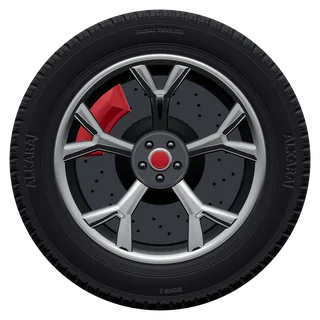
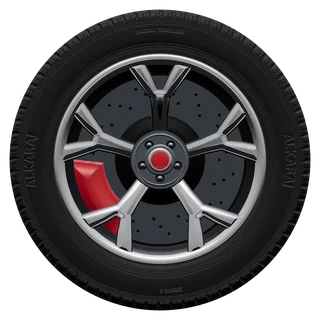
Wheel: a softbox arc on the sidewall, neutral rim light, the caliper at eight o'clock, an embossed hub
A near rectangular softbox above the wheel lights the top of the sidewall more than the bottom; the rim light and its
strip are neutral so the rubber reads grey-black; the caliper sits at eight o'clock so it shows through the spokes in
the 3/4 view; the hub face gets a raised boss round the cap and a thin embossed ring.

Claude-Session: https://claude.ai/code/session_01GJA9LqLvcHsRmQeKeLFNUG

Changed region(s): [[0.2188, 0.25, 0.4062, 0.75], [0.4375, 0.5312, 0.5625, 0.5938], [0.4375, 0.4062, 0.5625, 0.4688]]

diff --git a/scripts/brand/wheel/scene.js b/scripts/brand/wheel/scene.js
@@ -138,7 +138,7 @@ export function buildTyre({ segments = 1440, rows = 240 } = {}) {
     metalness: 0,
     bumpMap: tb,
     bumpScale: 28,
-    sheen: 0.5,
+    sheen: 0.25,
     sheenRoughness: 0.55,
     sheenColor: new THREE.Color(0x4a4d55),
     specularIntensity: 1.0,
@@ -361,6 +361,9 @@ export function buildRim() {
     const tip = new THREE.Mesh(tipG, M.nut); tip.position.set(x, y, HUB_Z - 0.022); g.add(tip);
   }
   // centre cap: the tag's red enamel in a thin alloy ring
+  // a raised centre boss round the cap, and a thin embossed ring between the nuts and the machined edge
+  g.add(new THREE.Mesh(lathe([[0.081, HUB_Z + 0.006], [0.094, HUB_Z + 0.0055], [0.1, HUB_Z + 0.002], [0.103, HUB_Z]], 192), M.hub));
+  g.add(new THREE.Mesh(lathe([[0.162, HUB_Z], [0.1645, HUB_Z + 0.0028], [0.168, HUB_Z + 0.0034], [0.1715, HUB_Z + 0.0028], [0.174, HUB_Z]], 256), M.hub));
   const capZ = HUB_Z + 0.006;
   g.add(new THREE.Mesh(lathe([[0.06, capZ + 0.004], [0.068, capZ + 0.005], [0.076, capZ + 0.002], [0.083, capZ - 0.01], [0.083, capZ - 0.05]], 192), M.lip));
   g.add(new THREE.Mesh(lathe([[0.0, capZ + 0.009], [0.035, capZ + 0.0085], [0.055, capZ + 0.006], [0.0605, capZ + 0.003]], 192), M.enamel));
@@ -393,7 +396,7 @@ export function buildBrake() {
   g.add(new THREE.Mesh(lathe([[0.69, -0.3], [0.64, -0.29], [0.6, -0.2], [0.59, -0.14]], 192), M.well));
 
   // the caliper: a rounded monoblock over the disc's edge at about ten o'clock, glossy red paint
-  const mid = 148 * DEG, half = 29 * DEG;
+  const mid = 210 * DEG, half = 29 * DEG; // about eight o'clock
   const cal = [];
   const N = 40;
   const r0 = 0.395, r1 = 0.605;
@@ -489,14 +492,15 @@ export function envStudio(renderer, { top = false } = {}) {
     flag(5, 2, [0, -4, 7]);
   } else {
     // a white studio: bright ceiling, a big key overhead to the left, a cool strip behind right, black flags for contrast
-    dome(s, 0.03, 0.2, 0.5);
+    dome(s, 0.01, 0.07, 0.25);
     box(12, 8, 3.4, 0xfff6ec, [-6, 7, 5]);
-    // high on the right, where the turned sidewall's upper-left bulge mirrors to: its long soft sheen
-    box(9, 5, 1.5, 0xfff6ec, [4.5, 6, 4.5]);
-    box(3, 12, 3.4, 0xcfdcff, [8, 1, -6]);
-    box(14, 3, 0.9, 0xffffff, [2, -2.5, 9]);
+    // a wide, low strip high on the right, where the turned sidewall's upper half mirrors to: its broad soft arc
+    box(16, 4, 3.6, 0xfff6ec, [5.5, 5.5, 3]);
+    // the rim light behind on the right, neutral so the rubber stays grey-black
+    box(3, 12, 3.0, 0xf4f4f4, [8, 1, -6]);
+    box(14, 3, 0.3, 0xffffff, [2, -2.5, 9]);
     // a big white card to the camera's right: the wheel is turned that way, so its machined faces reflect it
-    box(9, 6, 0.9, 0xffffff, [7, 0.5, 7]);
+    box(9, 6, 0.3, 0xffffff, [7, 0.5, 7]);
     flag(5, 3, [-6, -3.5, 6]);
     flag(3, 8, [-7, 0, -6]);
     flag(10, 2, [0, -3.2, -6]);

diff --git a/scripts/brand/wheel/render.html b/scripts/brand/wheel/render.html
@@ -13,6 +13,8 @@ import { EffectComposer } from 'three/addons/postprocessing/EffectComposer.js';
 import { RenderPass } from 'three/addons/postprocessing/RenderPass.js';
 import { GTAOPass } from 'three/addons/postprocessing/GTAOPass.js';
 import { OutputPass } from 'three/addons/postprocessing/OutputPass.js';
+import { RectAreaLightUniformsLib } from 'three/addons/lights/RectAreaLightUniformsLib.js';
+RectAreaLightUniformsLib.init();
 import { buildTyre, buildRim, buildBrake, envAxis, envStudio, treadDepth, buildTreadPlane, PITCHES } from './scene.js';
 
 const renderer = new THREE.WebGLRenderer({ alpha: true, antialias: true, preserveDrawingBuffer: true });
@@ -23,7 +25,7 @@ renderer.setClearColor(0x000000, 0);
 document.body.appendChild(renderer.domElement);
 
 // tuning knobs, settable from render.py through window.P before a render
-window.P = Object.assign({ exposure: 1.0, heroExposure: 1.25, fullExposure: 1.15, keyLight: 3, rimLight: 1.1, heroYaw: 32, heroPitch: 9, aoRadius: 0.2 }, window.P || {});
+window.P = Object.assign({ exposure: 1.0, heroExposure: 1.18, fullExposure: 1.15, keyLight: 3.6, rimLight: 1.1, heroYaw: 32, heroPitch: 9, aoRadius: 0.2 }, window.P || {});
 
 const cache = {};
 const part = (k, f) => (cache[k] ||= f());
@@ -106,8 +108,12 @@ window.renderLayer = async (name, size, h = size) => {
     g.rotation.y = (P.heroYaw * Math.PI) / 180;
     scene.add(g);
     // the key's direct part, so the tread blocks cast their shading; the cool rim from behind right
-    const key = new THREE.DirectionalLight(0xfff4ea, P.keyLight ?? 1.6); key.position.set(-5, 6, 4); scene.add(key);
-    const rimL = new THREE.DirectionalLight(0xcfdcff, P.rimLight ?? 1.4); rimL.position.set(5, 2.5, -8); scene.add(rimL);
+    const key = new THREE.DirectionalLight(0xfff4ea, P.keyLight ?? 1.6); key.position.set(-3, 8, 1.5); scene.add(key);
+    // a softbox close above and in front of the wheel: near enough that the top of the sidewall gets more of it than the
+    // bottom, which draws the broad arc across the upper half of the tyre
+    const soft = new THREE.RectAreaLight(0xfff6ec, P.softbox ?? 0.65, 9, 3);
+    soft.position.set(0.9, 1.95, 1.3); soft.lookAt(0, 0.5, 0); scene.add(soft);
+    const rimL = new THREE.DirectionalLight(0xffffff, P.rimLight ?? 1.4); rimL.position.set(5, 2.5, -8); scene.add(rimL);
     const cam = new THREE.PerspectiveCamera(20, 1, 0.5, 40);
     const dist = 7.4, pitch = (P.heroPitch * Math.PI) / 180;
     cam.position.set(0, dist * Math.sin(pitch), dist * Math.cos(pitch));
